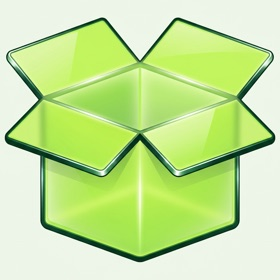
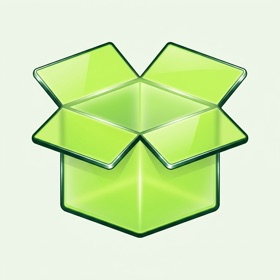
Быстрый старт, остатки, компактный блок скидки
- Магазин открывается сразу из сохранённой копии, свежие данные подгружаются следом
- Нельзя положить в корзину больше, чем есть на складе; «Осталось N шт.» на карточке
- На главной «Привет, @ник» и компактный блок скидок с переходом в «Мои скидки»
- Правила скидок списком, в корзине при скидке — только её размер
- Иконка пустой корзины без обрезанных краёв

diff --git a/app.js b/app.js
@@ -53,21 +53,56 @@ async function api(action, payload) {
   return data;
 }
 
+/**
+ * Сначала показываем сохранённую с прошлого раза копию магазина — мгновенно,
+ * а свежие данные с сервера подменяют её, как только придут.
+ */
 async function load() {
-  state.loading = true;
+  const cached = readInitCache();
+  if (cached) {
+    applyInit(cached);
+    state.loading = false;
+  } else {
+    state.loading = true;
+  }
   state.loadError = null;
   render();
   try {
-    applyInit(await api('init'));
+    const data = await api('init');
+    applyInit(data);
+    writeInitCache(data);
   } catch (err) {
-    state.loadError = err.message;
+    if (!cached) state.loadError = err.message;
   }
   state.loading = false;
-  render();
+  // Не перерисовываем открытую форму, чтобы не сбить ввод.
+  if (state.screen !== 'register' && state.screen !== 'restore') render();
+  else updateDock();
+}
+
+function initCacheKey() {
+  return `init_v1_${tgUser().id}`;
+}
+
+function readInitCache() {
+  if (DEMO) return null;
+  try {
+    return JSON.parse(localStorage.getItem(initCacheKey()));
+  } catch (err) {
+    return null;
+  }
+}
+
+function writeInitCache(data) {
+  if (DEMO) return;
+  try {
+    localStorage.setItem(initCacheKey(), JSON.stringify(data));
+  } catch (err) {
+    // Хранилище недоступно — в следующий раз просто подождём сервер.
+  }
 }
 
 function applyInit(data) {
-  cardCache.clear();
   state.shop = data.shop;
   state.categories = data.categories;
   state.products = data.products;
@@ -75,8 +110,12 @@ function applyInit(data) {
   state.profile = data.profile;
   if (state.activeCategory && !state.categories.some(c => c.name === state.activeCategory)) state.activeCategory = null;
 
-  // Товары, которых больше нет в каталоге, убираем из корзины.
-  Object.keys(state.cart).forEach(id => { if (!productById(id)) delete state.cart[id]; });
+  // Товары, которых больше нет, убираем из корзины, количество — не больше остатка.
+  Object.keys(state.cart).forEach(id => {
+    const p = productById(id);
+    if (!p) delete state.cart[id];
+    else if (p.stock !== null && p.stock !== undefined && state.cart[id] > p.stock) state.cart[id] = p.stock;
+  });
   saveCart();
 }
 
@@ -114,7 +153,16 @@ function categoryDiscount(category) {
   return c ? groupDiscount(c.group) : 0;
 }
 
+function stockOf(id) {
+  const p = productById(id);
+  return p && p.stock !== null && p.stock !== undefined ? p.stock : 999;
+}
+
 function setQty(id, qty) {
+  if (qty > stockOf(id)) {
+    toast(`Больше нет — в наличии ${stockOf(id)} шт.`);
+    qty = stockOf(id);
+  }
   if (qty > 0) state.cart[id] = Math.min(qty, 999);
   else delete state.cart[id];
   saveCart();
@@ -142,7 +190,9 @@ function cartTotals(lines) {
 
 function render() {
   const home = state.tab === 'catalog' && !state.screen;
-  document.getElementById('shop-title').textContent = `Добро пожаловать в ${state.shop.name}`;
+  document.getElementById('shop-title').textContent = state.profile
+    ? `Привет, ${state.profile.nick || state.profile.name}!`
+    : `Добро пожаловать в ${state.shop.name}`;
   document.querySelector('.top').hidden = !home; // приветствие — только на главной
   document.getElementById('demo-banner').hidden = !DEMO || !home;
 
@@ -205,7 +255,7 @@ function appendCards(products) {
   const frag = document.createDocumentFragment();
   products.forEach((p, i) => {
     const d = groupDiscount(p.group);
-    const key = `${p.id}|${d}`;
+    const key = [p.id, d, p.name, p.price, p.photo, p.label, p.stock].join('|');
     let node = cardCache.get(key);
     if (!node) {
       const tmp = document.createElement('div');
@@ -257,27 +307,14 @@ function discountBlock() {
     </section>`;
   }
 
-  const programs = state.discounts.filter(d => d.active || d.manual);
-  const p = state.profile;
-  const hello = p.nick || p.name;
-  const active = programs.filter(d => d.discount > 0);
-  const titles = programs.filter(d => d.title).map(d => d.title);
-  const next = programs.filter(d => d.next).sort((a, b) => a.next.left - b.next.left)[0];
-
-  const items = [
-    active.length
-      ? `${icon('percent', 'r', 18)}<span>Твоя скидка: ${active.map(d => `<b>−${d.discount}% на ${esc(lower(d.name))}</b>`).join(active.length > 2 ? ', ' : ' и ')}</span>`
-      : `${icon('percent', 'r', 18)}<span>Скидка появится после первой покупки</span>`,
-    titles.length ? `${icon('crown', 'r', 18)}<span>Статус: <b>${esc(titles.join(', '))}</b></span>` : '',
-    p.totalSpent > 0 ? `${icon('bag', 'r', 18)}<span>Сумма предыдущих заказов: <strong>${money(p.totalSpent)}</strong></span>` : '',
-    next ? `${icon('arrow', 'r', 18)}<span>До −${next.next.discount}% на ${esc(lower(next.name))}${next.next.title ? ` (${esc(next.next.title)})` : ''} осталось <strong>${money(next.next.left)}</strong></span>` : '',
-  ].filter(Boolean);
-
-  return `<section class="dblock">
-    <p class="dblock-title">Привет, ${esc(hello)}!</p>
-    <ul class="dblock-list">${items.map(i => `<li>${i}</li>`).join('')}</ul>
-    <button class="linkbtn" data-action="tab" data-value="discounts">Все уровни скидок ${icon('chevron', 's', 16)}</button>
-  </section>`;
+  // Есть скидка: крупные проценты по программам, по тапу — вкладка «Мои скидки».
+  const active = state.discounts.filter(d => (d.active || d.manual) && d.discount > 0);
+  return `<button class="dblock dblock-mini" data-action="tab" data-value="discounts" aria-label="Мои скидки">
+    ${active.length
+      ? active.map(d => `<span class="dmini"><b>−${d.discount}%</b><span>на все ${esc(lower(d.name))}</span></span>`).join('')
+      : '<span class="dmini-empty">Скидка появится после первой покупки</span>'}
+    ${icon('chevron', 's', 22)}
+  </button>`;
 }
 
 function chip(value, label) {
@@ -300,6 +337,7 @@ function productCard(p, eager) {
     <div class="card-body">
       <h3>${esc(p.name)}</h3>
       <div class="price">${priceHtml(p.price, d)}</div>
+      ${p.stock !== null && p.stock !== undefined && p.stock <= 5 ? `<p class="stock-left">Осталось ${p.stock} шт.</p>` : ''}
       <div class="ctrl">${qtyControl(p.id)}</div>
     </div>
   </article>`;
@@ -317,7 +355,7 @@ function stepper(id, qty) {
   return `<div class="stepper">
     <button data-action="dec" data-id="${esc(id)}" aria-label="Убрать одну штуку">${icon('minus', 's', 18)}</button>
     <span>${qty}</span>
-    <button data-action="inc" data-id="${esc(id)}" aria-label="Добавить ещё одну">${icon('plus', 's', 18)}</button>
+    <button data-action="inc" data-id="${esc(id)}" aria-label="Добавить ещё одну" ${qty >= stockOf(id) ? 'disabled' : ''}>${icon('plus', 's', 18)}</button>
   </div>`;
 }
 
@@ -361,7 +399,7 @@ function lineHtml(l) {
     </div>
     <div class="line-info">
       <div class="line-name">${esc(l.p.name)}</div>
-      <div class="line-meta">${esc(l.p.category)}${l.discount ? ` · <span class="save">−${l.discount}%</span>` : ''}</div>
+      <div class="line-meta">${l.discount ? `<span class="save">−${l.discount}%</span>` : esc(l.p.category)}</div>
       <div class="line-bottom">
         ${stepper(l.p.id, l.qty)}
         <div class="line-price">${l.discount ? `<s>${money(l.sum)}</s>` : ''}<b>${money(l.total)}</b></div>
@@ -384,7 +422,12 @@ function viewDiscounts() {
       ${programs.map((d, i) => percentTile(d, i, odd && i === programs.length - 1)).join('')}
       ${programs.map((d, i) => scaleTile(d, i)).join('')}
     </div>
-    <p class="hint">Скидки считаются отдельно: каждая покупка идёт в свою шкалу. Сумма засчитывается, когда заказ подтверждён, и скидка растёт сама.</p>`;
+    <ul class="rules">
+      <li>Скидки на ${esc(joinAnd(programs.map(d => lower(d.name))))} считаются отдельно: каждая покупка идёт в свою шкалу.</li>
+      <li>Сумма засчитывается, когда заказ подтверждён.</li>
+      <li>Скидка растёт сама, как только наберёшь сумму следующего уровня.</li>
+      <li>Скидки применяются, когда товар добавлен в корзину.</li>
+    </ul>`;
 }
 
 /** Виджет «Скидка на …»: крупный процент. */
@@ -399,15 +442,13 @@ function percentTile(d, i, wide) {
     note = 'персональная';
   } else if (d.title) {
     note = `${icon('crown', 'm', 14)}${esc(d.title)}`;
-  } else if (d.next) {
-    note = `следующая — ${d.next.discount}%`;
   } else {
-    note = 'максимальная';
+    note = '';
   }
   return `<article class="tile tile-pct ${i % 2 ? 'tone-lime' : 'tone-forest'} ${wide ? 'tile-wide' : ''}">
     <p class="tile-label">Скидка на ${esc(lower(d.name))}</p>
     <p class="tile-value">${value}<span>%</span></p>
-    <p class="tile-note">${note}</p>
+    ${note ? `<p class="tile-note">${note}</p>` : ''}
   </article>`;
 }
 
@@ -822,6 +863,10 @@ function applyTelegramTheme() {
   }
 }
 
+function joinAnd(list) {
+  return list.length > 1 ? `${list.slice(0, -1).join(', ')} и ${list[list.length - 1]}` : list.join('');
+}
+
 function maxDiscount(d) {
   return d.levels.reduce((m, l) => Math.max(m, l.discount), d.discount);
 }
@@ -910,8 +955,8 @@ const demo = {
     { name: 'Аксессуары', group: 'Аксессуары' },
   ],
   products: [
-    { id: 'IP16-128', name: 'iPhone 16 128 ГБ', category: 'iPhone', price: 79990, label: 'NEW' },
-    { id: 'IP13-128U', name: 'iPhone 13 128 ГБ, АКБ 89%', category: 'iPhone б/у', price: 34990, label: 'Б/У' },
+    { id: 'IP16-128', name: 'iPhone 16 128 ГБ', category: 'iPhone', price: 79990, label: 'NEW', stock: 3 },
+    { id: 'IP13-128U', name: 'iPhone 13 128 ГБ, АКБ 89%', category: 'iPhone б/у', price: 34990, label: 'Б/У', stock: 1 },
     { id: 'APP2', name: 'AirPods Pro 2 USB-C', category: 'AirPods', price: 19990, label: 'NEW' },
     { id: 'AWSE2', name: 'Apple Watch SE 2 40 мм', category: 'Apple Watch', price: 24990, label: '' },
     { id: 'SGS24', name: 'Samsung Galaxy S24 256 ГБ', category: 'Samsung', price: 64990, label: '' },
@@ -953,7 +998,7 @@ async function demoApi(action) {
     return {
       shop: demo.shop,
       categories: demo.categories,
-      products: demo.products.map(p => Object.assign({ group: groupOf(p.category), photo: '' }, p)),
+      products: demo.products.map(p => Object.assign({ group: groupOf(p.category), photo: '', stock: null }, p)),
       profile: profile(),
       discounts: demoDiscounts(),
     };

diff --git a/style.css b/style.css
@@ -139,8 +139,8 @@ main { padding: 4px 16px 16px; }
   height: 132px;
   margin: 0 auto 12px;
   /* фон картинки растворяется в фоне страницы */
-  -webkit-mask-image: radial-gradient(circle, #000 60%, transparent 71%);
-  mask-image: radial-gradient(circle, #000 60%, transparent 71%);
+  -webkit-mask-image: radial-gradient(closest-side, #000 82%, transparent 100%);
+  mask-image: radial-gradient(closest-side, #000 82%, transparent 100%);
 }
 .empty .state-art + p { font-size: 17px; font-weight: 600; color: var(--text); }
 
@@ -232,6 +232,29 @@ main { padding: 4px 16px 16px; }
 .dblock-list li .icon { color: var(--lime); margin-top: 1px; }
 .dblock-list b { color: var(--lime); font-weight: 650; }
 .dblock-list strong { color: var(--on-forest); font-weight: 600; }
+
+.dblock-mini {
+  display: flex;
+  align-items: center;
+  gap: 22px;
+  width: 100%;
+  padding: 16px 16px 16px 18px;
+  border: 0;
+  text-align: left;
+  cursor: pointer;
+}
+.dblock-mini > .icon { margin-left: auto; color: var(--lime); }
+.dmini { display: flex; flex-direction: column; }
+.dmini b {
+  font-size: 34px;
+  font-weight: 800;
+  line-height: 1;
+  letter-spacing: -0.03em;
+  color: var(--lime);
+  font-variant-numeric: tabular-nums;
+}
+.dmini span { margin-top: 4px; font-size: 13px; color: var(--on-forest-muted); }
+.dmini-empty { font-size: 15px; font-weight: 600; }
 
 .linkbtn {
   display: inline-flex;
@@ -382,6 +405,7 @@ main { padding: 4px 16px 16px; }
 .price { margin-top: auto; padding-top: 4px; font-variant-numeric: tabular-nums; }
 .price b { font-size: 16px; font-weight: 700; }
 .price s { display: block; color: var(--hint); font-size: 12px; }
+.stock-left { font-size: 12px; color: var(--hint); }
 .ctrl { margin-top: 8px; }
 .ctrl .btn { min-height: 40px; font-size: 14px; }
 
@@ -404,6 +428,7 @@ main { padding: 4px 16px 16px; }
   color: inherit;
   cursor: pointer;
 }
+.stepper button:disabled { opacity: 0.35; cursor: default; }
 .stepper span { font-weight: 650; font-variant-numeric: tabular-nums; }
 
 /* ── Корзина ── */
@@ -571,6 +596,9 @@ a { color: var(--link); }
 .tile-footer { margin-top: 10px; font-size: 14px; color: var(--hint); }
 .tile-footer b { color: var(--text); font-weight: 650; }
 .hint { font-size: 13px; color: var(--hint); margin: 14px 4px 0; }
+.rules { margin: 16px 4px 0; padding-left: 18px; font-size: 13px; color: var(--hint); }
+.rules li + li { margin-top: 6px; }
+.rules li::marker { color: var(--forest-2); }
 
 /* ── Заказ принят / заявка отправлена ── */
 .success { text-align: center; padding-top: 28px; }

diff --git a/index.html b/index.html
@@ -4,11 +4,14 @@
   <meta charset="utf-8">
   <meta name="viewport" content="width=device-width, initial-scale=1, viewport-fit=cover">
   <title>Айпарк</title>
-  <script src="https://telegram.org/js/telegram-web-app.js"></script>
+  <script src="https://telegram.org/js/telegram-web-app.js" defer></script>
+  <link rel="preconnect" href="https://script.google.com">
+  <link rel="preconnect" href="https://script.googleusercontent.com">
   <link rel="preconnect" href="https://lh3.googleusercontent.com">
   <link rel="preconnect" href="https://fonts.googleapis.com">
   <link rel="preconnect" href="https://fonts.gstatic.com" crossorigin>
-  <link rel="stylesheet" href="https://fonts.googleapis.com/css2?family=Onest:wght@100..900&family=Playfair+Display:wght@400..900&display=swap">
+  <!-- Шрифты не блокируют показ страницы: до загрузки текст рисуется системным шрифтом -->
+  <link rel="stylesheet" href="https://fonts.googleapis.com/css2?family=Onest:wght@100..900&family=Playfair+Display:wght@400..900&display=swap" media="print" onload="this.media='all'">
   <link rel="stylesheet" href="style.css">
 </head>
 <body>
@@ -34,7 +37,7 @@
   </nav>
   <div id="toast" class="toast" role="status" hidden></div>
 
-  <script src="icons.js"></script>
-  <script src="app.js"></script>
+  <script src="icons.js" defer></script>
+  <script src="app.js" defer></script>
 </body>
 </html>
